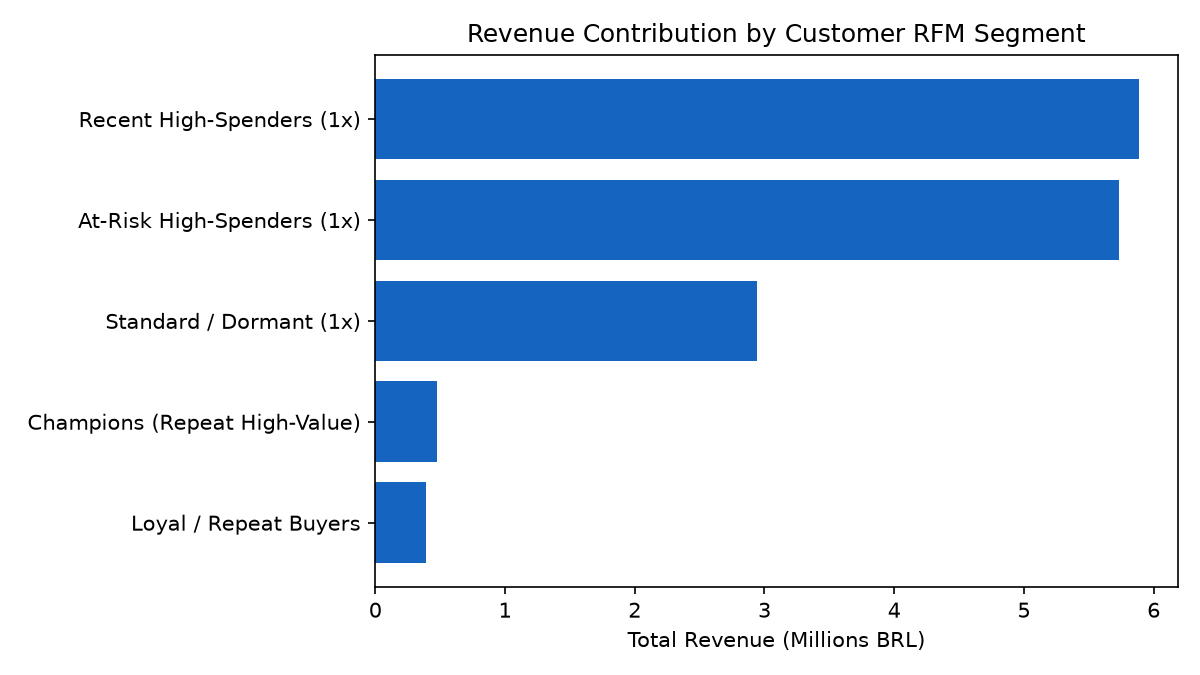
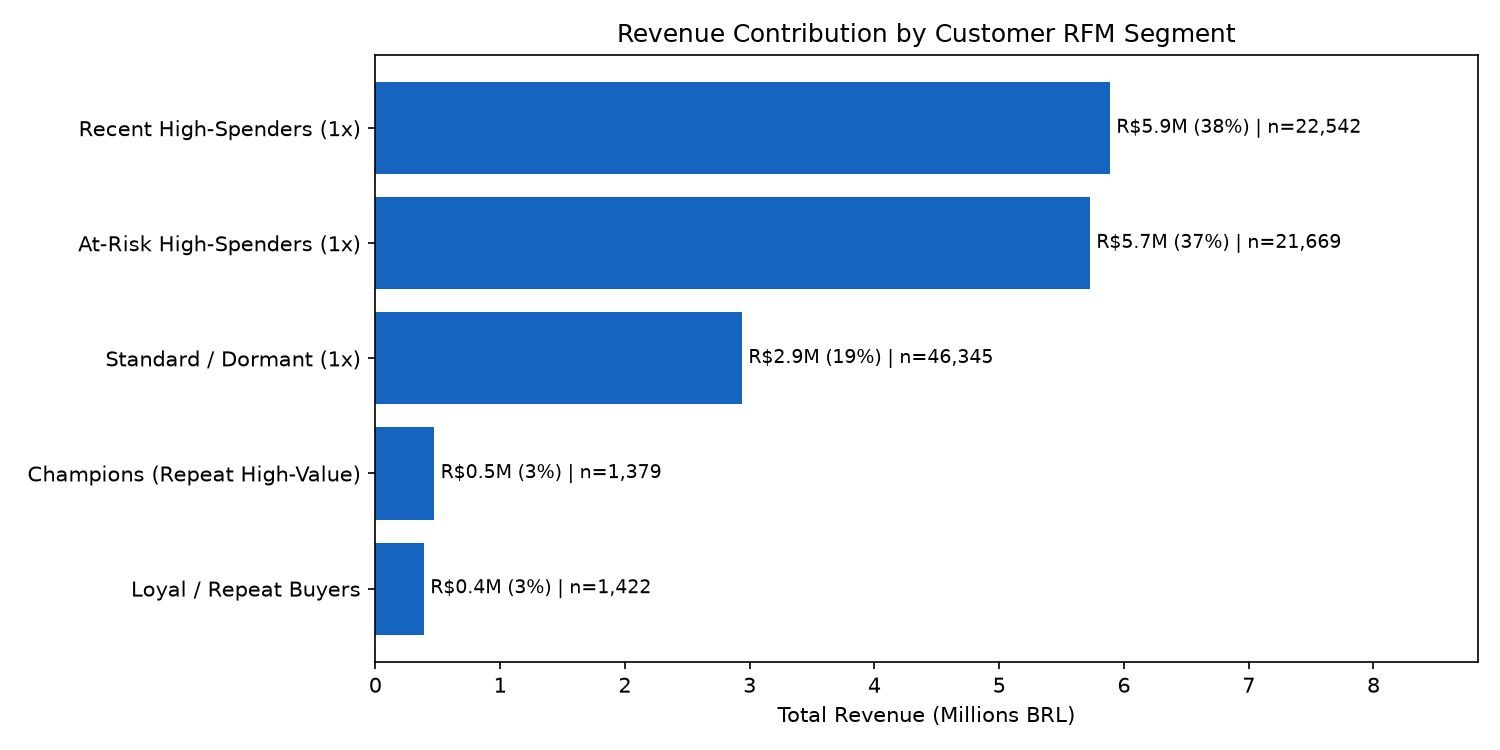
Add delay bucket chart and improve segment chart

Changed region(s): [[0.0, 0.0311, 0.9867, 0.9644]]

diff --git a/src/run_report.py b/src/run_report.py
@@ -222,8 +222,19 @@ plt.tight_layout()
 plt.savefig(os.path.join(OUT_DIR, "delivery_vs_reviews.png"), dpi=150)
 plt.close()
 
-plt.figure(figsize=(8, 4.5))
+total_rev = rfm_summary["total_revenue"].sum()
+count_col = next((c for c in ["customers", "customer_count", "unique_customers",
+                              "num_customers", "n_customers"] if c in rfm_summary.columns), None)
+
+plt.figure(figsize=(10, 5))
 plt.barh(rfm_summary["segment"], rfm_summary["total_revenue"] / 1e6, color="#1565C0")
+for i, (_, row) in enumerate(rfm_summary.reset_index(drop=True).iterrows()):
+    rev = row["total_revenue"]
+    label = f"R${rev/1e6:.1f}M ({rev/total_rev:.0%})"
+    if count_col:
+        label += f" | n={int(row[count_col]):,}"
+    plt.text(rev / 1e6 + 0.05, i, label, va="center", fontsize=9)
+plt.xlim(0, rfm_summary["total_revenue"].max() / 1e6 * 1.5)
 plt.xlabel("Total Revenue (Millions BRL)")
 plt.title("Revenue Contribution by Customer RFM Segment")
 plt.gca().invert_yaxis()
@@ -240,5 +251,47 @@ with pd.ExcelWriter(excel_path, engine="openpyxl") as writer:
     results["02_category_revenue_delivery.sql"].to_excel(writer, sheet_name="Top_Categories", index=False)
     results["03_high_sales_poor_sellers.sql"].to_excel(writer, sheet_name="Seller_Risk_Rank", index=False)
 
+    # 6. Delay buckets vs. review score
+delay_query = """
+WITH order_reviews AS (
+    SELECT order_id, AVG(review_score) AS score
+    FROM reviews
+    GROUP BY order_id
+)
+SELECT
+    o.order_id,
+    julianday(o.order_delivered_customer_date) - julianday(o.order_estimated_delivery_date) AS delay_days,
+    r.score
+FROM orders o
+JOIN order_reviews r ON r.order_id = o.order_id
+WHERE o.order_status = 'delivered'
+  AND o.order_delivered_customer_date IS NOT NULL
+  AND o.order_estimated_delivery_date IS NOT NULL
+"""
+delay_df = pd.read_sql_query(delay_query, conn)
+delay_df["bucket"] = pd.cut(
+    delay_df["delay_days"],
+    bins=[-float("inf"), 0, 3, 7, float("inf")],
+    labels=["On time", "0-3 days late", "3-7 days late", "7+ days late"],
+)
+bucket_summary = (
+    delay_df.groupby("bucket", observed=True)["score"]
+    .agg(avg_score="mean", orders="count")
+    .reset_index()
+)
+print(bucket_summary)
+
+plt.figure(figsize=(9, 5))
+colors = ["#2E7D32", "#F9A825", "#EF6C00", "#C62828"]
+bars = plt.bar(bucket_summary["bucket"].astype(str), bucket_summary["avg_score"], color=colors)
+for bar, avg, n in zip(bars, bucket_summary["avg_score"], bucket_summary["orders"]):
+    plt.text(bar.get_x() + bar.get_width() / 2, avg + 0.06,
+             f"{avg:.2f}\n(n={n:,})", ha="center", fontsize=9)
+plt.ylim(0, 5.4)
+plt.ylabel("Average Review Score (1-5)")
+plt.title("Review Scores Drop Sharply as Delivery Delay Grows")
+plt.tight_layout()
+plt.savefig(os.path.join(OUT_DIR, "delay_buckets_vs_reviews.png"), dpi=150)
+plt.close()
 conn.close()
 print("Done! Generated SQL files, charts, and Excel workbook in /outputs.")
